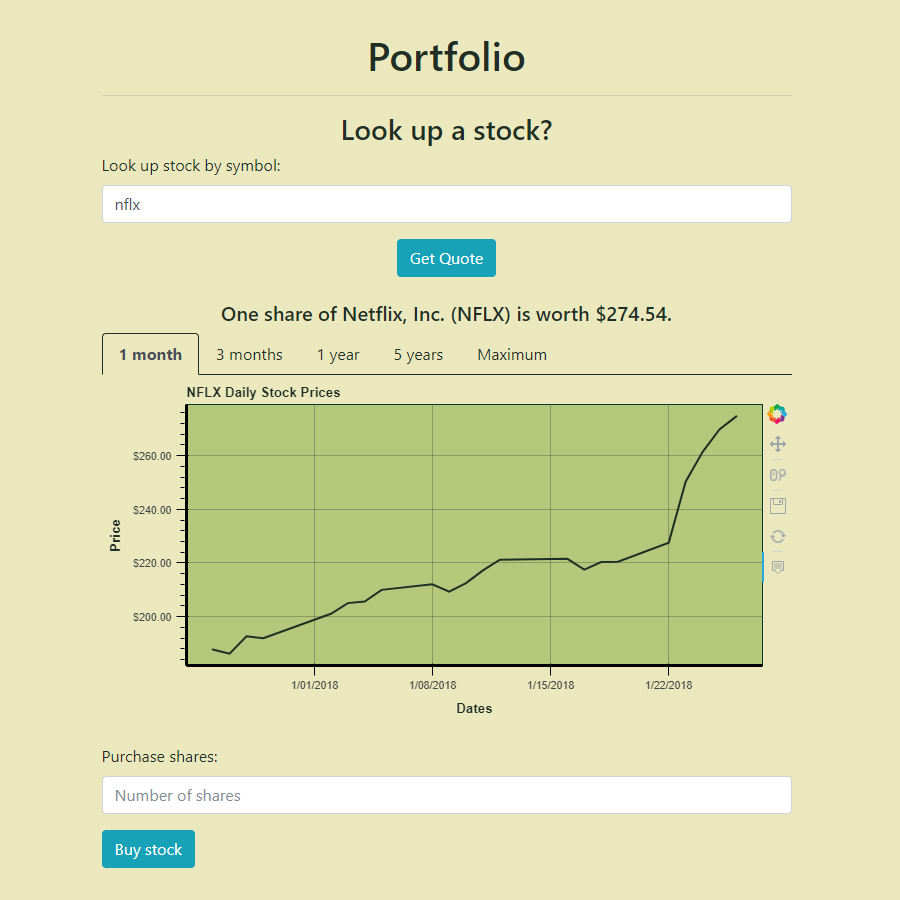
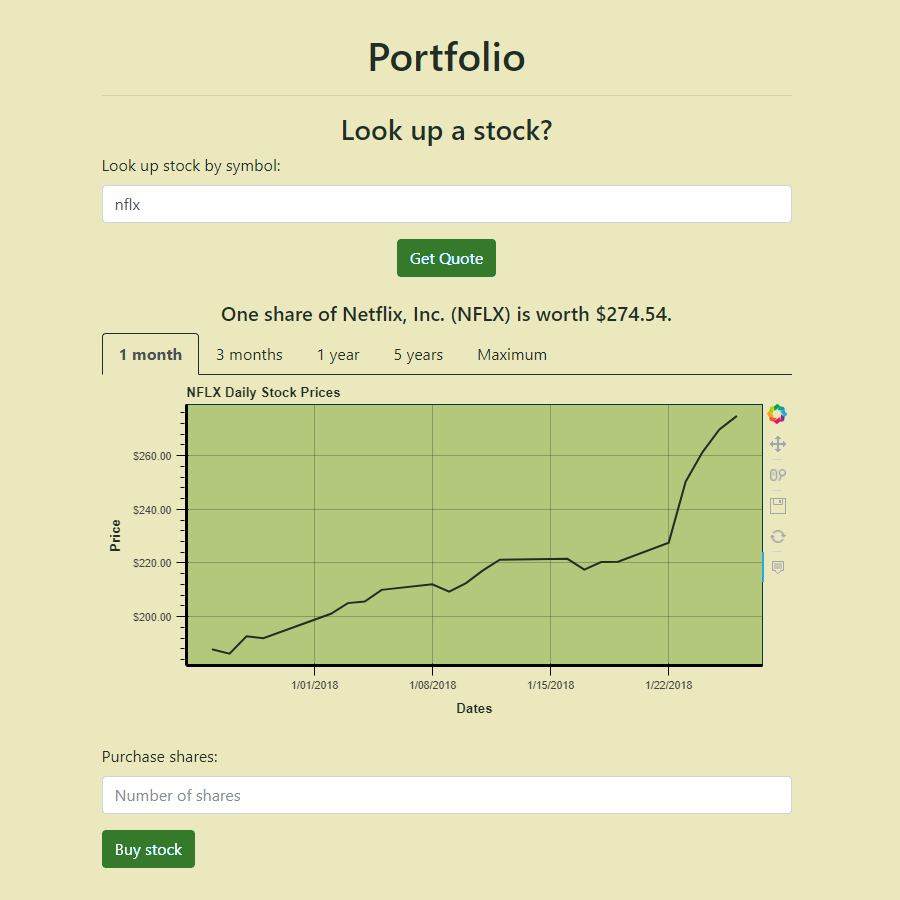
Added timezone with "a" link for Finance/History. Badge to Finance/add_funds. Updated project images.

Changed region(s): [[0.4356, 0.2489, 0.56, 0.3111], [0.0933, 0.9022, 0.2178, 0.9644]]

diff --git a/Finance/templates/Finance/add_funds.html b/Finance/templates/Finance/add_funds.html
@@ -23,7 +23,7 @@
     be saved from this page. However, since this is a fake "fund-adding" page, I
     suggest you use one of these valid, yet in-activated credit cards offered
     for testing by
-  <a href="https://developer.paypal.com/docs/classic/payflow/payflow-pro/payflow-pro-testing/" target="_blank">paypal</a>.</p>
+  <a class="badge badge-green" href="https://developer.paypal.com/docs/classic/payflow/payflow-pro/payflow-pro-testing/" target="_blank">paypal</a>.</p>
   <h4 class="text-center">Current account funds: {{ cash }}</h4>
   <br>
 </div>

diff --git a/static/VerdantFox/css/master.css b/static/VerdantFox/css/master.css
@@ -207,6 +207,20 @@ text{
     border-color: #34892a;
 }
 
+/* Badges */
+.badge-green{
+    color: #fff;
+    background-color: #347A2A;
+    border-color: #347A2A;
+}
+
+.badge-green:hover{
+    color: #fff;
+    background-color: #359d2b;
+    border-color: #359d2b;
+    text-decoration: none;
+}
+
 .btn-outline-green {
     color: #347A2A;
     background-color: transparent;

diff --git a/Finance/templates/Finance/history.html b/Finance/templates/Finance/history.html
@@ -22,6 +22,9 @@
   <h1 class="Table_headers text-center">Transaction History</h1>
   {% if transaction_list %}
     <br>
+    <h5>Your timezone: <a href="{% url 'accounts:edit_profile' %}">
+      {{ user_timezone }}</a></h5>
+    <br>
     <table class="table table-striped">
       <thead>
         <tr>

diff --git a/Finance/views.py b/Finance/views.py
@@ -386,7 +386,7 @@ def ajax_graph(request):
                    })
 
 
-class History(LoginRequiredMixin, ListView):
+class HistoryView(LoginRequiredMixin, ListView):
     """Display users purchase, sale, and money addition history"""
     template_name = 'Finance/history.html'
     model = Transaction
@@ -409,6 +409,12 @@ class History(LoginRequiredMixin, ListView):
         timezone.activate(user_timezone)
 
         return transactions
+
+    def get_context_data(self, **kwargs):
+        context = super(HistoryView, self).get_context_data(**kwargs)
+        context['user_timezone'] = self.request.user.userprofile.timezone
+        # Add any other variables to the context here
+        return context
 
 
 class AddFunds(LoginRequiredMixin, FormView, base.ContextMixin):

diff --git a/Finance/urls.py b/Finance/urls.py
@@ -6,7 +6,7 @@ app_name = 'Finance'
 urlpatterns = [
     path('', views.Home.as_view(), name='home'),
     path('portfolio/', views.portfolio, name='portfolio'),
-    path('history/', views.History.as_view(), name='history'),
+    path('history/', views.HistoryView.as_view(), name='history'),
     path('add_funds/', views.AddFunds.as_view(), name='add_funds'),
     path('ajax_graph/', views.ajax_graph, name='ajax_graph'),
     path('ajax_quote/', views.ajax_quote, name='ajax_quote'),
